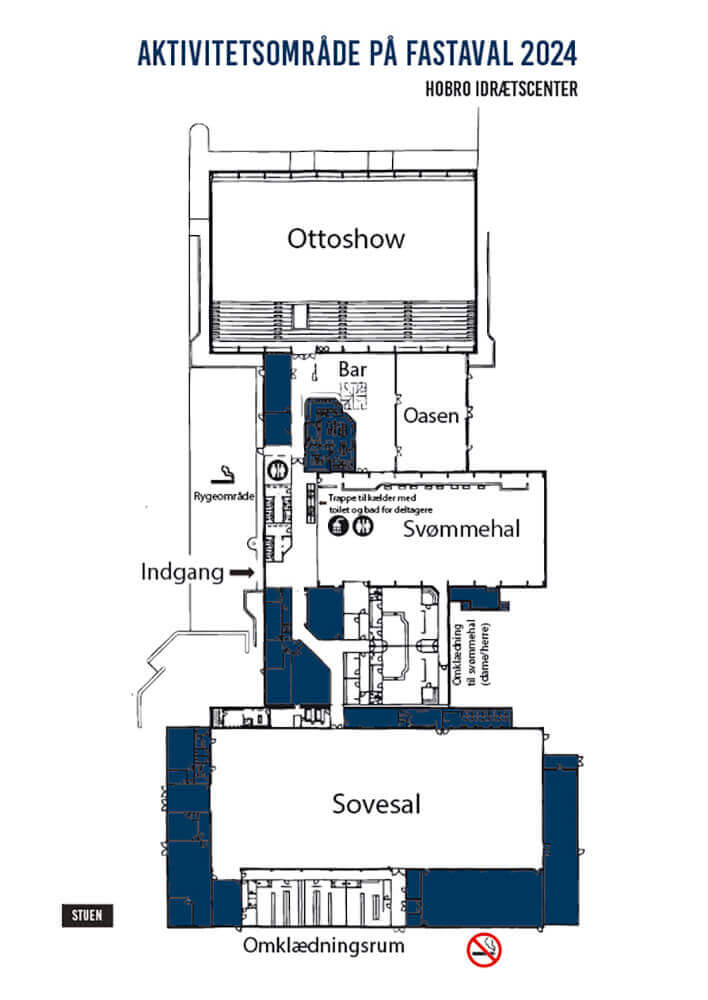
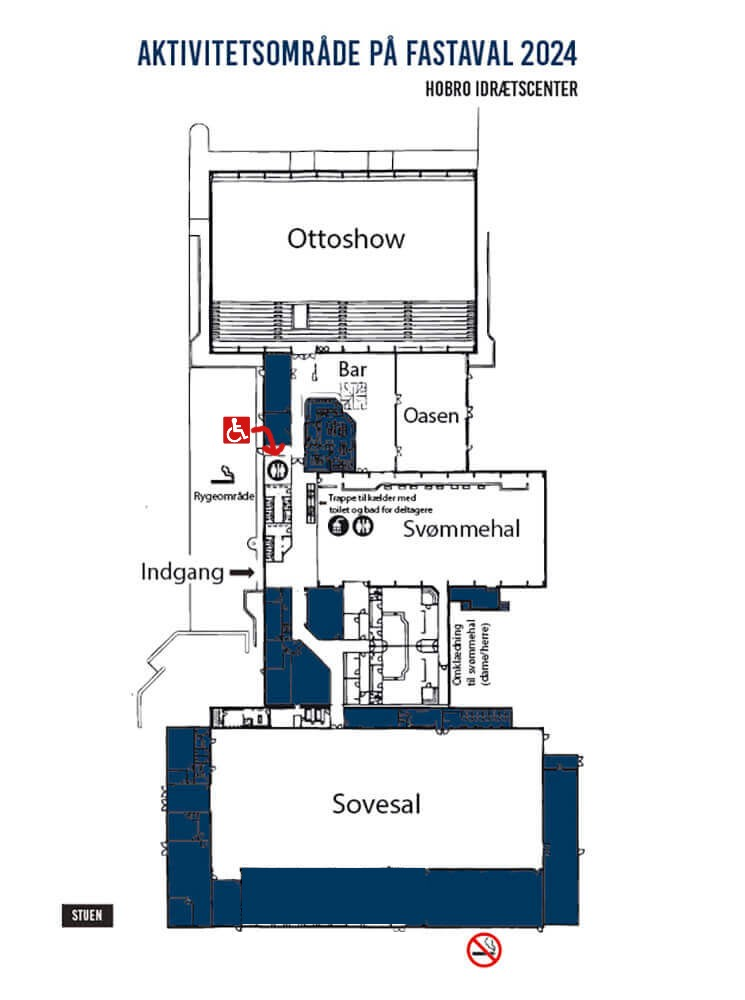
1.2.4 (#69)
* Updated maps

diff --git a/lib/screens/more.screen.dart b/lib/screens/more.screen.dart
@@ -139,7 +139,7 @@ class MoreScreen extends StatelessWidget {
                             alignment: Alignment.bottomRight,
                             child: Padding(
                                 padding: EdgeInsets.only(bottom: 8, right: 16),
-                                child: Text('1.2.3 © Fastaval IT',
+                                child: Text('1.2.4 © Fastaval IT',
                                     style: kNormalTextSubdued)))
                       ],
                     ),

diff --git a/lib/constants/styles.constant.dart b/lib/constants/styles.constant.dart
@@ -16,7 +16,7 @@ BoxDecoration backgroundBoxDecorationStyle = BoxDecoration(
 double kCardElevation = 5;
 
 EdgeInsets kCardMargin = EdgeInsets.fromLTRB(16, 8, 16, 0);
-EdgeInsets kMenuCardMargin = EdgeInsets.fromLTRB(16, 16, 16, 0);
+EdgeInsets kMenuCardMargin = EdgeInsets.fromLTRB(16, 8, 16, 0);
 EdgeInsets kCardPadding = EdgeInsets.all(16.0);
 EdgeInsets kCardContentPadding = EdgeInsets.fromLTRB(16, 0, 16, 16);
 
